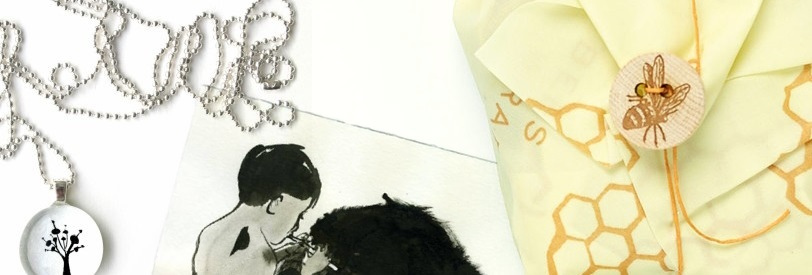
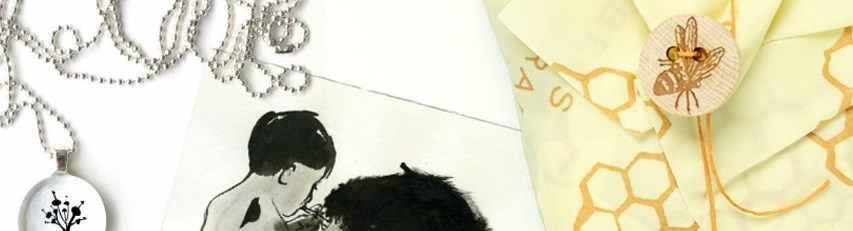
widescreen design

diff --git a/page/lk/css/desktop.css b/page/lk/css/desktop.css
@@ -7,28 +7,28 @@
 
 
 section {
-	margin: 20px;
+	margin: 15px;
 }
 section .link {
 	font-size: 120px;
 }
 #blog {	
-	width: 750px;	
+	width: 735px;	
 }
 #portfolio {
-	width: 614px;	
+	width: 620px;	
 }
 #info {
-	width: 553px;
+	width: 544px;
 }
 #shop {
-	width: 812px;
+	width: 810px;
 }
 .boven {
-	height: 559px;
+	height: 480px;
 }
 .onder {
-	height: 275px;
+	height: 220px;
 }
 
 /*portfolio deep */

diff --git a/page/lk/css/ipad.css b/page/lk/css/ipad.css
@@ -62,23 +62,23 @@ section {
 	font-size: 90px;	    
 }
 #blog {	
-	width: 51vw;	
+	width: 50vw;	
 }
 #portfolio {
 	width: 42vw;
 }
 #info {
-	width: 38vw;
-		order: 0;
+	width: 37vw;
+	order: 0;
 }
 #shop {
 	width: 55vw;
 }
 .boven {
-	height: 38vw;
+	height: 32vw;
 }
 .onder {
-	height: 19vw;
+	height: 14.2vw;
 }
 .p-deep {
 
